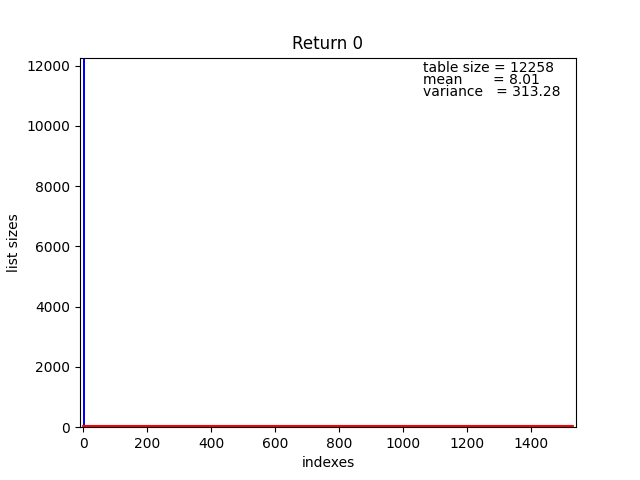
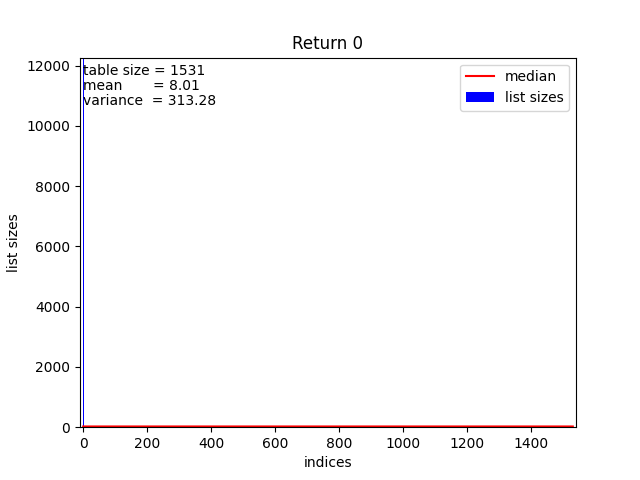
Change graphics

Changed region(s): [[0.6562, 0.125, 0.9062, 0.2188], [0.125, 0.125, 0.3438, 0.2188], [0.4688, 0.9375, 0.5625, 1.0]]

diff --git a/README.md b/README.md
@@ -40,11 +40,11 @@ $$h: U \rightarrow {0, 1, \ldots, m-1}$$
 
 **Коллизией** назовем ситуацию, когда значения хеш-функций двух разных ключей совпадают.
 
-Общий принцип работы хеш-таблиц следующий: перед каждым запросом некоторая хеш-функция сопоставляет ключу натуральное число - хеш, по которому определяется дальнейшая обработка запроса. При хорошо подобранной хеш-функции и некоторых допущениях можно добиться того, что все запросы работают за O(1).
+Общий принцип работы хеш-таблиц следующий: перед каждым запросом некоторая хеш-функция сопоставляет ключу натуральное число - хеш, по которому определяется дальнейшая обработка запроса. При хорошо подобранной хеш-функции и некоторых допущениях можно добиться того, что все запросы работают за $O(1)$.
 
 Для решения коллизий было решено реализовать хеш-таблицу **методом цепочек**, который состоит в том, что мы храним не пару (ключ, значение), а храним цепочку из ключей. В качестве цепочки было решено использовать [двусвязный список](https://github.com/Ch1n-ch1nless/MY_LIST). Однако, стоит отметить, что в данной работе односвязный список так же можно использовать.
 
-Чтобы данная структура данных обрабатывала запросы за O(1) необходим ряд следующих требований:
+Чтобы данная структура данных обрабатывала запросы за $O(1)$ необходим ряд следующих требований:
 
 *  хеш-функция должна равномерно распределять элементы по таблице, чтобы списки получались примерно одинаковой длины
 *  алгоритм пересчета хеша должен для одного и того же ключа всегда выдавать один и тот же хеш
@@ -154,7 +154,11 @@ uint32_t HashReturnSumCodes(const char* key, size_t len)
 }
 ```
 
-![](Images/sum_codes_hash.png)
+Рассмотрим, распределение данной хеш-функции на маленьком датасете. Датасет состоит из 1550 уникальных cлов. Размер хеш-таблицы выберем, равный $193$, так как $193$ - самое отдаленное простое число от степеней двоек и *load factor* $\approx 8$.
+
+![](Images/sum_codes_hash_193.png)
+
+![](Images/sum_codes_hash_1531.png)
 
 Диаграмма при размере хеш-таблицы = 1531 и полном датасете из 142049 слов.
 Среднее квадратичное отклонение $\sigma = 10.10$. 
@@ -501,11 +505,11 @@ int HashTableSearch(const HashTable* const hash_table, const char* key, size_t l
 
 | Номер замера  | Время в тактах|
 |:-------------:|:-------------:|
-|   $1$         | $40261211552$ |
-|   $2$         | $39375098784$ |
-|   $3$         | $41374334656$ |
-|   $4$         | $40405351840$ |
-|   $5$         | $40975126176$ |
+|   $1$         | $$ |
+|   $2$         | $$ |
+|   $3$         | $$ |
+|   $4$         | $$ |
+|   $5$         | $$ |
 
 
 Таблица сравнений с другими реализациями:
@@ -516,7 +520,7 @@ int HashTableSearch(const HashTable* const hash_table, const char* key, size_t l
 | Реализация с O3           |   $(57,9 \pm 0,8) * 10^9$     |   1,49                                        |   1,49                                       |  
 | Ускорение strcmp          |   $(43,8 \pm 0,7) * 10^9$     |   1,97                                        |   1,32                                        |
 | Ускорение strcmp и CRC32  |   $(40,5 \pm 0,8) * 10^9$     |   2,13                                        |   1,08                                        |
-
+| Ускорение HashTableSearch |                               |                                               |                                               |
 
 # Вывод
 
